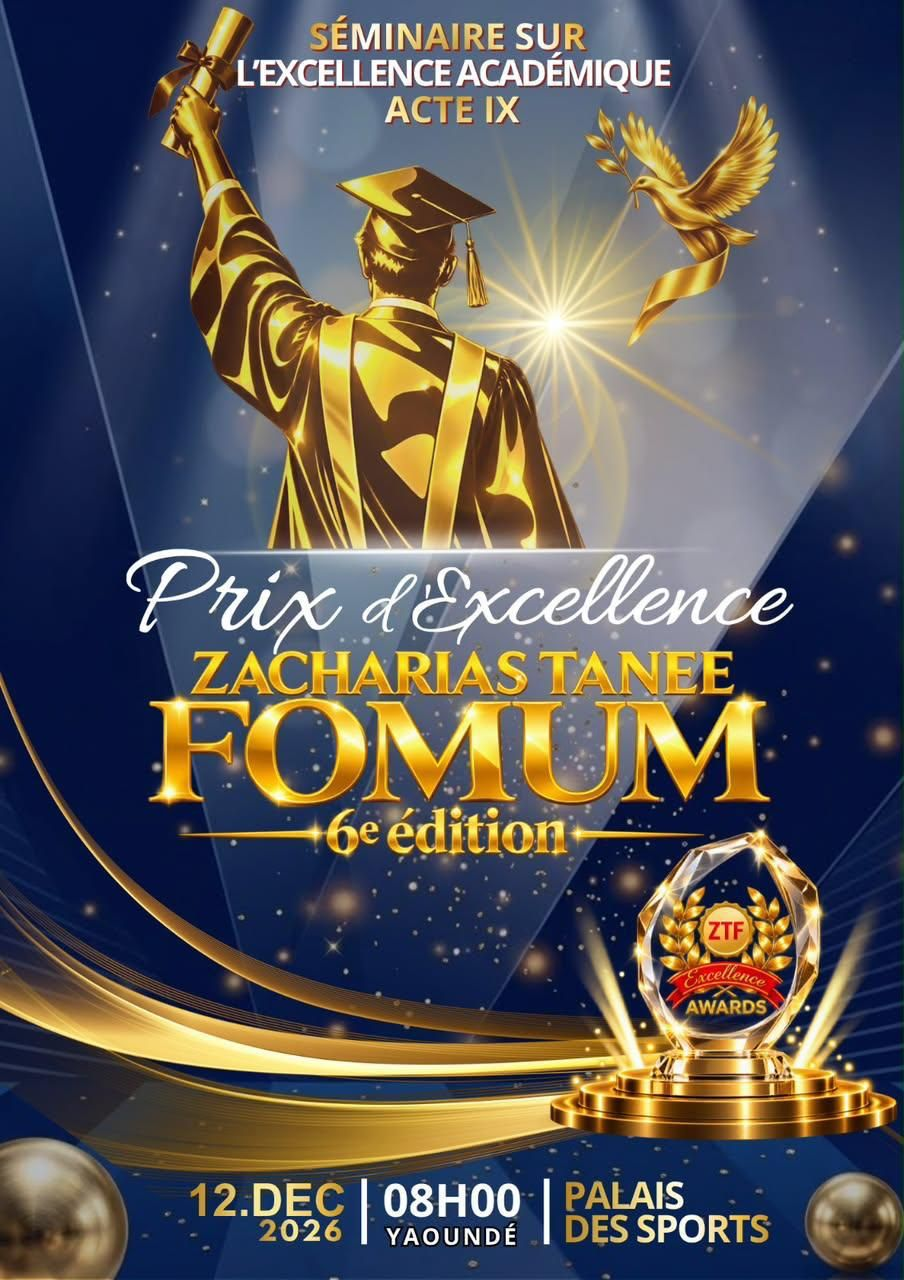
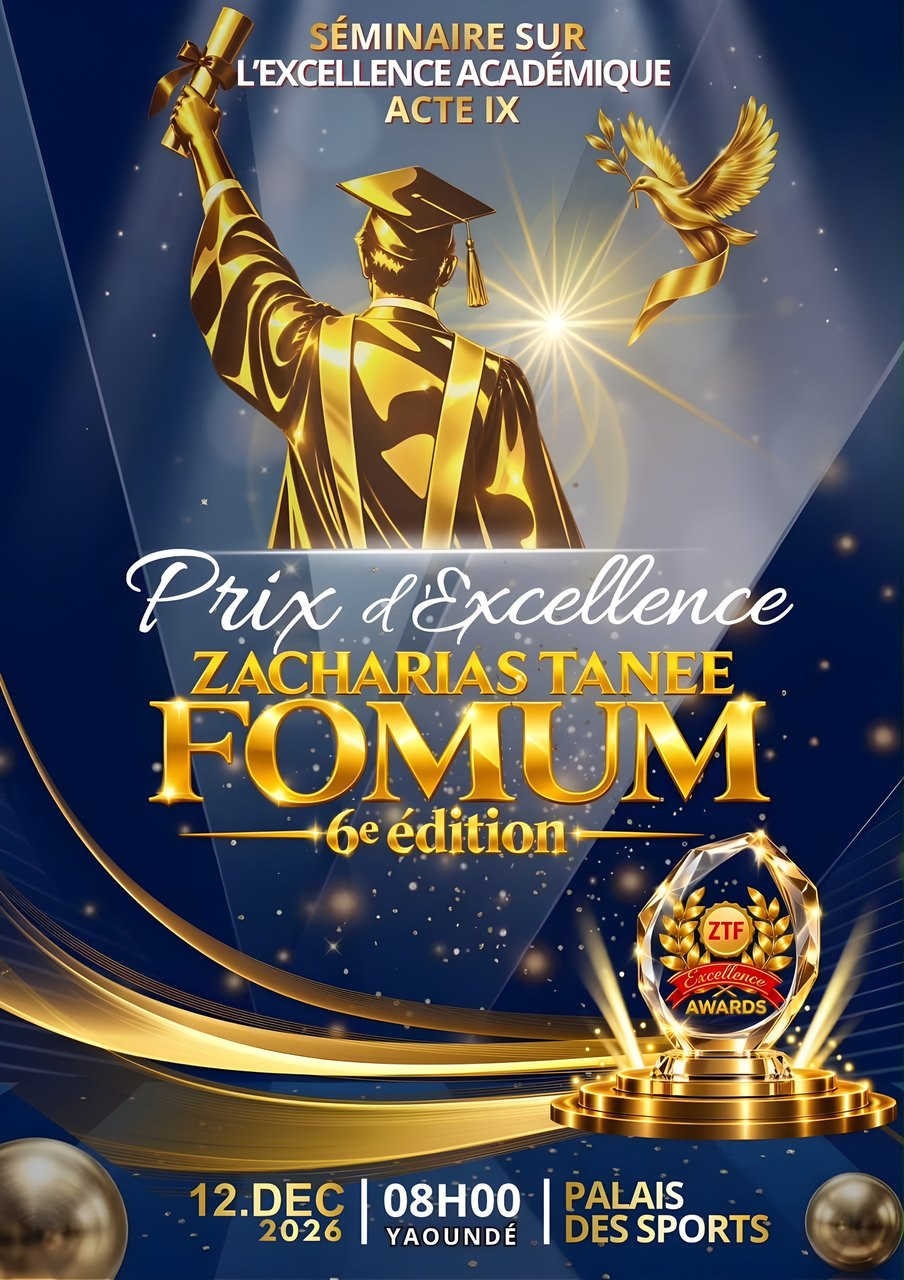
Affiche de gauche plus nette : agrandissement Real-ESRGAN, deux tailles servies selon l'écran
L'affiche (904 × 1280) a été agrandie ×4 par Real-ESRGAN x4plus (poids
officiels, chargés en mode « poids seuls »), puis ramenée à 1808 × 2560
(affiche-gala-2x.jpg, 520 Ko) et à 904 × 1280 (affiche-gala.jpg, 218 Ko,
plus nette que l'ancienne). srcset : les écrans haute définition prennent
la version double, les autres la version de base. Textes de l'affiche
vérifiés un à un : aucun caractère modifié.

Claude-Session: https://claude.ai/code/session_01McbipxuU5nPCsWqp91hPYk

diff --git a/maquettes/ecoles/enspy/1-croquis.html b/maquettes/ecoles/enspy/1-croquis.html
@@ -44,7 +44,7 @@ body{background:var(--paper);color:var(--ink)}
 <div class="layout">
   <aside class="poster sparkle">
     <div class="poster-in">
-      <img src="../../affiche/img/affiche-gala.jpg" width="904" height="1280" fetchpriority="high" alt="Affiche du Prix d'Excellence Zacharias Tanee Fomum, 6e édition, 12 décembre 2026 à 08h00 au Palais des Sports de Yaoundé">
+      <img src="../../affiche/img/affiche-gala.jpg" srcset="/img/affiche-gala.jpg 904w, /img/affiche-gala-2x.jpg 1808w" sizes="(max-width: 980px) min(420px, calc(100vw - 32px)), 40vw" width="904" height="1280" fetchpriority="high" alt="Affiche du Prix d'Excellence Zacharias Tanee Fomum, 6e édition, 12 décembre 2026 à 08h00 au Palais des Sports de Yaoundé">
     </div>
   </aside>
 

diff --git a/maquettes/ecoles/enspy/2-bandeau-photo.html b/maquettes/ecoles/enspy/2-bandeau-photo.html
@@ -44,7 +44,7 @@ body{background:var(--paper);color:var(--ink)}
 <div class="layout">
   <aside class="poster sparkle">
     <div class="poster-in">
-      <img src="../../affiche/img/affiche-gala.jpg" width="904" height="1280" fetchpriority="high" alt="Affiche du Prix d'Excellence Zacharias Tanee Fomum, 6e édition, 12 décembre 2026 à 08h00 au Palais des Sports de Yaoundé">
+      <img src="../../affiche/img/affiche-gala.jpg" srcset="/img/affiche-gala.jpg 904w, /img/affiche-gala-2x.jpg 1808w" sizes="(max-width: 980px) min(420px, calc(100vw - 32px)), 40vw" width="904" height="1280" fetchpriority="high" alt="Affiche du Prix d'Excellence Zacharias Tanee Fomum, 6e édition, 12 décembre 2026 à 08h00 au Palais des Sports de Yaoundé">
     </div>
   </aside>
 

diff --git a/maquettes/ecoles/enspy/3-photo-en-haut.html b/maquettes/ecoles/enspy/3-photo-en-haut.html
@@ -44,7 +44,7 @@ body{background:var(--paper);color:var(--ink)}
 <div class="layout">
   <aside class="poster sparkle">
     <div class="poster-in">
-      <img src="../../affiche/img/affiche-gala.jpg" width="904" height="1280" fetchpriority="high" alt="Affiche du Prix d'Excellence Zacharias Tanee Fomum, 6e édition, 12 décembre 2026 à 08h00 au Palais des Sports de Yaoundé">
+      <img src="../../affiche/img/affiche-gala.jpg" srcset="/img/affiche-gala.jpg 904w, /img/affiche-gala-2x.jpg 1808w" sizes="(max-width: 980px) min(420px, calc(100vw - 32px)), 40vw" width="904" height="1280" fetchpriority="high" alt="Affiche du Prix d'Excellence Zacharias Tanee Fomum, 6e édition, 12 décembre 2026 à 08h00 au Palais des Sports de Yaoundé">
     </div>
   </aside>
 

diff --git a/maquettes/ecoles/enspy/4-couleurs-ecole.html b/maquettes/ecoles/enspy/4-couleurs-ecole.html
@@ -44,7 +44,7 @@ body{background:var(--paper);color:var(--ink)}
 <div class="layout">
   <aside class="poster sparkle">
     <div class="poster-in">
-      <img src="../../affiche/img/affiche-gala.jpg" width="904" height="1280" fetchpriority="high" alt="Affiche du Prix d'Excellence Zacharias Tanee Fomum, 6e édition, 12 décembre 2026 à 08h00 au Palais des Sports de Yaoundé">
+      <img src="../../affiche/img/affiche-gala.jpg" srcset="/img/affiche-gala.jpg 904w, /img/affiche-gala-2x.jpg 1808w" sizes="(max-width: 980px) min(420px, calc(100vw - 32px)), 40vw" width="904" height="1280" fetchpriority="high" alt="Affiche du Prix d'Excellence Zacharias Tanee Fomum, 6e édition, 12 décembre 2026 à 08h00 au Palais des Sports de Yaoundé">
     </div>
   </aside>
 

diff --git a/maquettes/ecoles/enspy/5-gala.html b/maquettes/ecoles/enspy/5-gala.html
@@ -44,7 +44,7 @@ body{background:var(--paper);color:var(--ink)}
 <div class="layout">
   <aside class="poster sparkle">
     <div class="poster-in">
-      <img src="../../affiche/img/affiche-gala.jpg" width="904" height="1280" fetchpriority="high" alt="Affiche du Prix d'Excellence Zacharias Tanee Fomum, 6e édition, 12 décembre 2026 à 08h00 au Palais des Sports de Yaoundé">
+      <img src="../../affiche/img/affiche-gala.jpg" srcset="/img/affiche-gala.jpg 904w, /img/affiche-gala-2x.jpg 1808w" sizes="(max-width: 980px) min(420px, calc(100vw - 32px)), 40vw" width="904" height="1280" fetchpriority="high" alt="Affiche du Prix d'Excellence Zacharias Tanee Fomum, 6e édition, 12 décembre 2026 à 08h00 au Palais des Sports de Yaoundé">
     </div>
   </aside>
 

diff --git a/site/enspy/index.html b/site/enspy/index.html
@@ -47,7 +47,7 @@ body{background:var(--paper);color:var(--ink)}
 <div class="layout">
   <aside class="poster sparkle">
     <div class="poster-in">
-      <img src="/img/affiche-gala.jpg" width="904" height="1280" fetchpriority="high" alt="Affiche du Prix d'Excellence Zacharias Tanee Fomum, 6e édition, 12 décembre 2026 à 08h00 au Palais des Sports de Yaoundé">
+      <img src="/img/affiche-gala.jpg" srcset="/img/affiche-gala.jpg 904w, /img/affiche-gala-2x.jpg 1808w" sizes="(max-width: 980px) min(420px, calc(100vw - 32px)), 40vw" width="904" height="1280" fetchpriority="high" alt="Affiche du Prix d'Excellence Zacharias Tanee Fomum, 6e édition, 12 décembre 2026 à 08h00 au Palais des Sports de Yaoundé">
     </div>
   </aside>
 

diff --git a/site/index.html b/site/index.html
@@ -45,7 +45,7 @@ body{background:var(--paper);color:var(--ink)}
 <div class="layout">
   <aside class="poster sparkle">
     <div class="poster-in">
-      <img src="img/affiche-gala.jpg" width="904" height="1280" fetchpriority="high" alt="Affiche du Prix d'Excellence Zacharias Tanee Fomum, 6e édition, 12 décembre 2026 à 08h00 au Palais des Sports de Yaoundé">
+      <img src="img/affiche-gala.jpg" srcset="/img/affiche-gala.jpg 904w, /img/affiche-gala-2x.jpg 1808w" sizes="(max-width: 980px) min(420px, calc(100vw - 32px)), 40vw" width="904" height="1280" fetchpriority="high" alt="Affiche du Prix d'Excellence Zacharias Tanee Fomum, 6e édition, 12 décembre 2026 à 08h00 au Palais des Sports de Yaoundé">
     </div>
   </aside>
 

diff --git a/README.md b/README.md
@@ -108,6 +108,7 @@ Une variable modifiée ne s'applique qu'au déploiement suivant.
 site/
   index.html                  formulaire réel (maquette « Affiche et formulaire » + envoi au serveur)
   css/affiche.css, js/affiche.js, img/   identité des affiches, textes de l'événement, affiche
+                              (affiche-gala.jpg et affiche-gala-2x.jpg : l'affiche de la Fondation agrandie ×2 avec Real-ESRGAN x4plus, puis réduite ; textes vérifiés à l'œil, aucun caractère modifié)
   enspy/index.html            page de l'ENSPY (générée par scripts/pages-ecoles.mjs, ne pas modifier à la main)
   css/ecole.css, js/ecole.js, img/ecoles/   en-tête des pages par école
   js/submit.js                envoi du dossier et recherche « Déjà inscrit ? »
